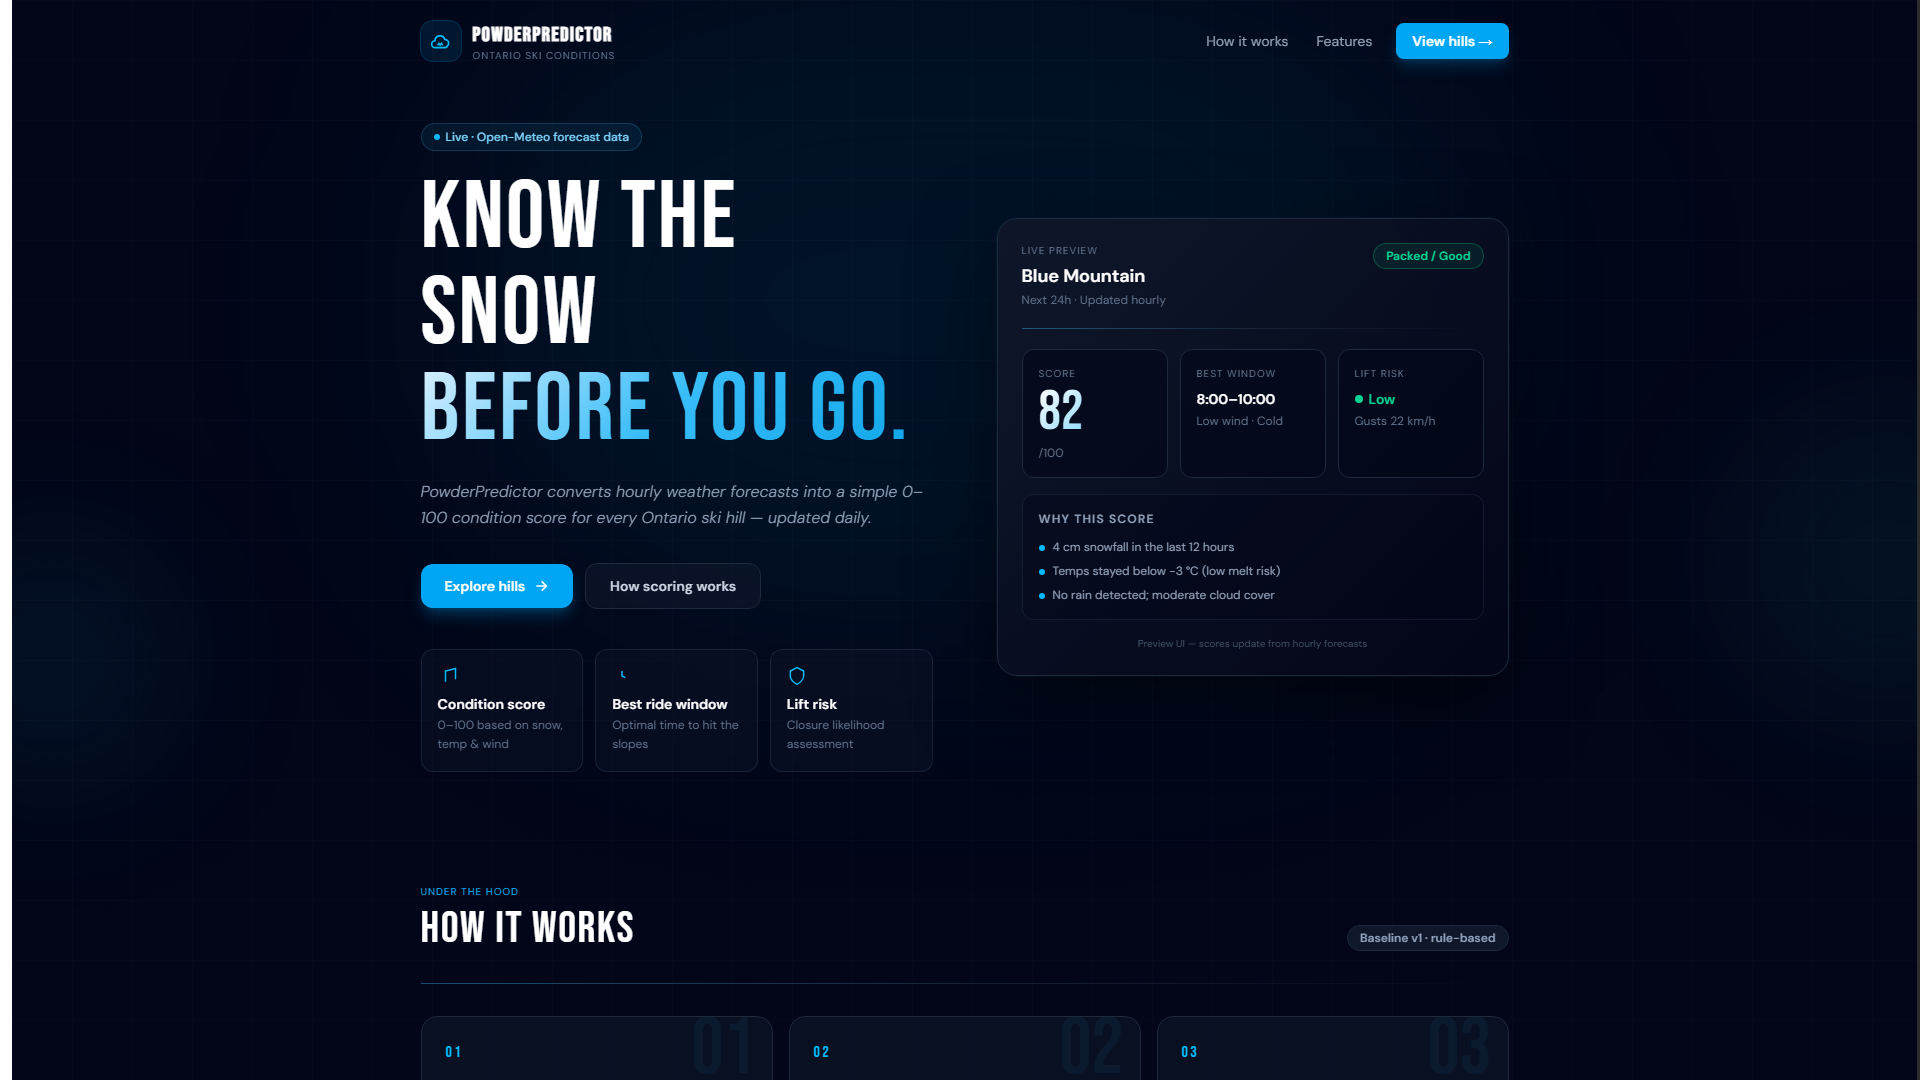
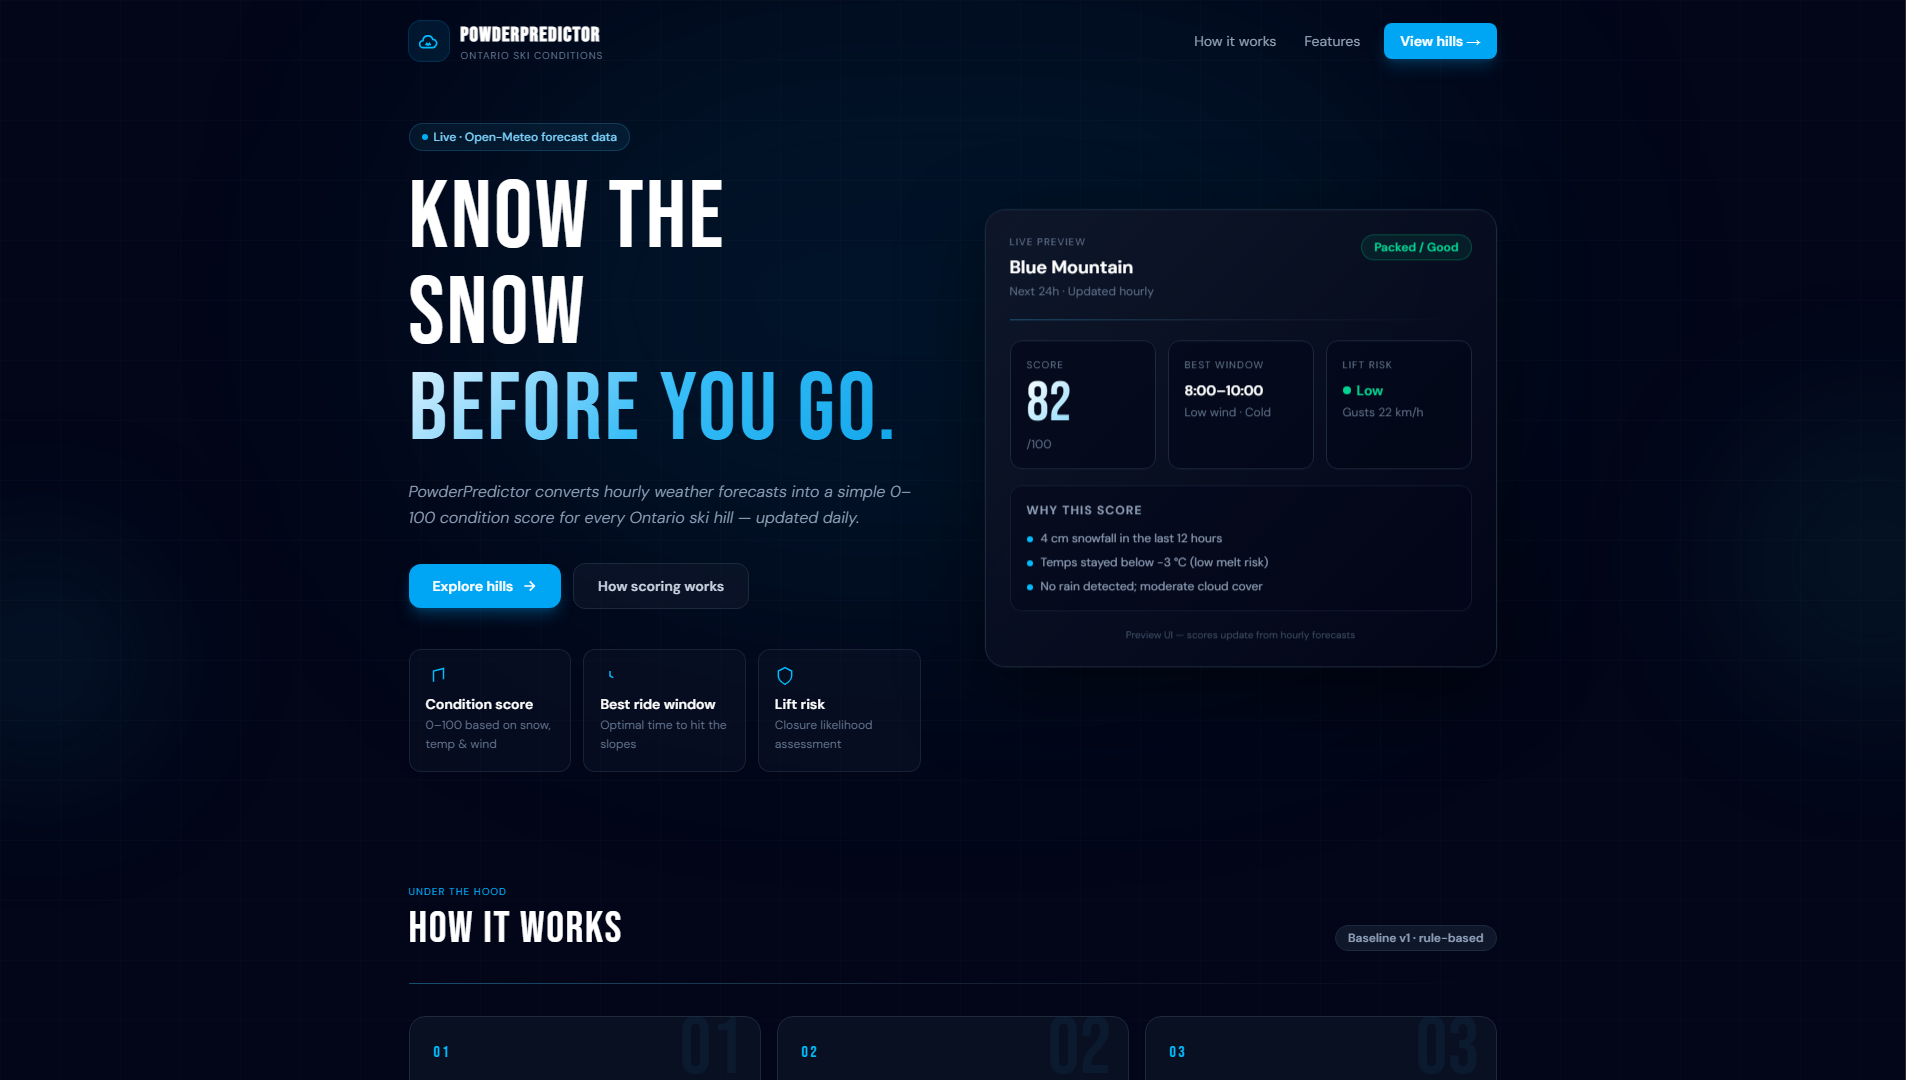
Edited a little

diff --git a/my-react-app/src/Components/ProjectPageSelection/ProjectPageSelection.jsx b/my-react-app/src/Components/ProjectPageSelection/ProjectPageSelection.jsx
@@ -12,51 +12,52 @@ export default function ProjectCards({
     {
       title: "Automatic Plant Watering System",
       description:
-        "Automated plant watering system using Arduino Grove, moisture sensing, and pump control. Java (Firmata) drives hardware while a live StdDraw graph visualizes moisture over time.",
+        "Developed an automated IoT-based plant watering system using Arduino Grove sensors and pump control. Implemented moisture-based decision logic with Java (Firmata) integration, and built real-time data visualization using StdDraw to monitor soil conditions.",
       href: "https://github.com/droxuz/PlantWateringSystem",
       linkLabel: "GitHub Repo",
-      image: { src: WaterWizardImage, alt: "WaterWizard project preview" },
-      keywords: ["Arduino", "IoT", "Automation"],
-      meta: "Java • Firmata • Sensors • MOSFET • Data visualization",
+      image: { src: WaterWizardImage, alt: "Automatic Plant Watering System preview" },
+      keywords: ["Embedded Systems", "IoT", "Automation"],
+      meta: "Java • Arduino • Firmata • Sensors • Data Visualization • Hardware Control",
     },
     {
       title: "HideoutHelper",
       description:
-        "Web app for Escape From Tarkov players to track hideout upgrades. Built with HTML/CSS/JavaScript and Firebase (Firestore + hosting) to learn full-stack fundamentals and NoSQL design.",
+        "Built a full-stack web application to track Escape From Tarkov hideout upgrades, implementing dynamic UI rendering and NoSQL data modeling. Utilized Firebase Firestore for real-time data storage and hosting for deployment.",
       href: "https://hideouthelper-7c1a6.web.app/",
       linkLabel: "ENTER",
       image: { src: HideoutHelperImage, alt: "HideoutHelper project preview" },
-      keywords: ["Firebase", "NoSQL", "Web App"],
-      meta: "JavaScript • Firestore • Full-Stack • UI/UX",
+      keywords: ["Full-Stack", "Firebase", "NoSQL"],
+      meta: "JavaScript • React • Firestore • Firebase Hosting • Dynamic UI",
     },
     {
       title: "FPGA Bluetooth Controlled Car",
       description:
-        "Designed and implemented in SystemVerilog on a DE10-Lite board, integrating SPI-based sensor acquisition and PWM motor control for real-time speed and direction adjustment. Ultrasonic sensing enabled obstacle detection, while ESP32 wireless communication provide remote control capability.",
+        "Designed and implemented an embedded system on an FPGA (DE10-Lite) using SystemVerilog, integrating SPI-based sensor communication and PWM motor control for real-time navigation. Enabled wireless control via ESP32 and implemented ultrasonic-based obstacle detection.",
       href: "https://github.com/droxuz/fpga-rc-car",
-      linkLabel: "Github",
-      image: { src: TiltTerrainImage, alt: "FPGA Bluetooth-Controlled Car project preview" },
-      keywords: ["FPGA", "SystemVerilog", "Embedded"],
-      meta: "DE10-Lite • ESP32 • SPI • Motor Control • Ultrasonic Sensor",
+      linkLabel: "GitHub",
+      image: { src: TiltTerrainImage, alt: "FPGA Bluetooth Controlled Car preview" },
+      keywords: ["FPGA", "Embedded Systems", "Hardware Design"],
+      meta: "SystemVerilog • DE10-Lite • ESP32 • SPI • PWM • Ultrasonic Sensing",
     },
     {
       title: "PlatePlan",
       description:
-        "Standalone Java + PostgreSQL restaurant management system with reservations, table management, menus, analytics-ready data, and authentication. Built with a team; Java Swing for GUI.",
+        "Developed a desktop-based restaurant management system using Java and PostgreSQL, supporting reservations, table management, authentication, and reporting. Implemented a GUI with Java Swing and structured relational database design.",
       href: "https://github.com/droxuz/Plate_Plan",
       linkLabel: "GitHub",
       image: { src: PlatePlanImage, alt: "PlatePlan project preview" },
-      keywords: ["Java", "PostgreSQL", "Full Stack"],
-      meta: "Desktop app • Auth • CRUD • Reporting",
+      keywords: ["Java", "Full-Stack", "Relational Database"],
+      meta: "Java • PostgreSQL • Swing • CRUD • Authentication • Reporting",
     },
     {
-      title: "POWDERPREDICTOR",
-      description:"Web application designed around skiers and snowboarders to give a quick weather summary of the conditions on the slopes nearby Toronto, Ontario. Outlining optimal timeframes, lift risks, and general weather overview. Introduces the powder score that takes into account all weather conditions for a score of 0-100",
+      title: "Powder Predictor",
+      description:
+        "Built a full-stack web application for analyzing ski conditions using real-time weather data. Designed a ‘powder score’ algorithm (0–100) based on snowfall, temperature, and wind, with data aggregation and forecasting powered by external APIs.",
       href: "https://powder-predictor.vercel.app/",
-      linkLabel:"ENTER",
-      image: {src: PowderPredictorImage, alt: "PowderPredictor project preview" },
-      keywords: ["Next.js", "PostgreSQL", "Weather API"],
-      meta: "Next.js • Open-Meteo API • Neon PostgreSQL • Data Aggregation • Forecasting"
+      linkLabel: "ENTER",
+      image: { src: PowderPredictorImage, alt: "Powder Predictor project preview" },
+      keywords: ["Full-Stack", "Next.js", "API Integration"],
+      meta: "Next.js • TypeScript • PostgreSQL • Open-Meteo API • Data Aggregation • Forecasting",
     },
   ],
 }) {
